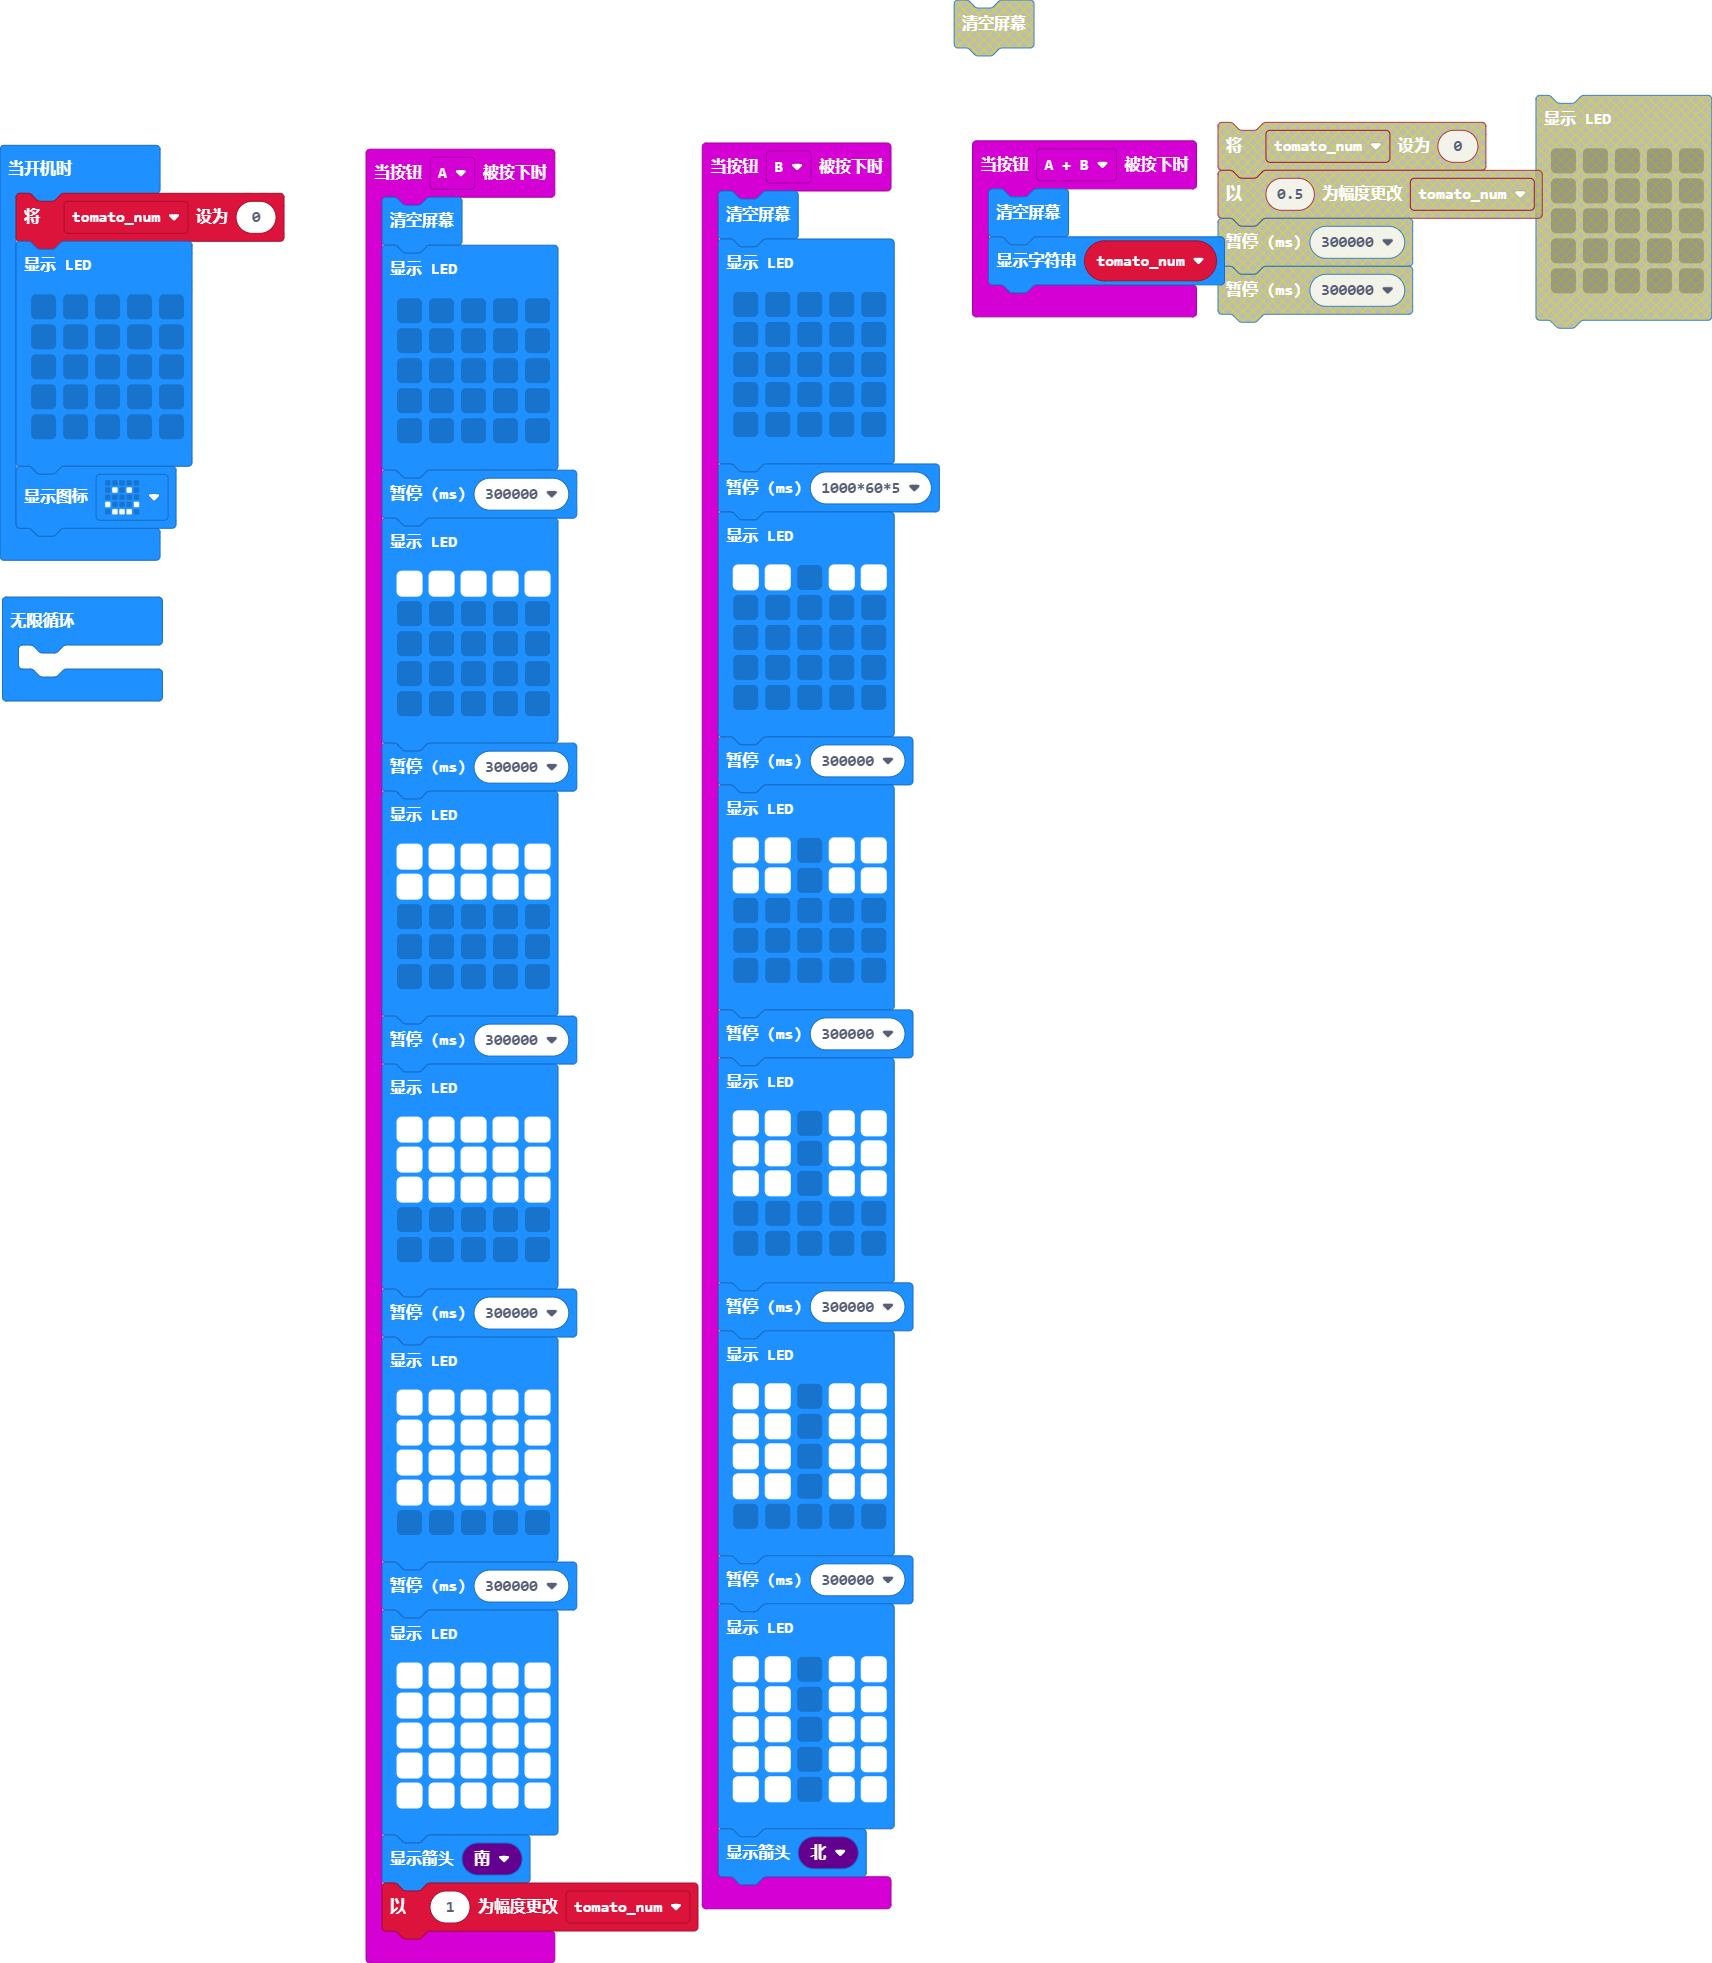
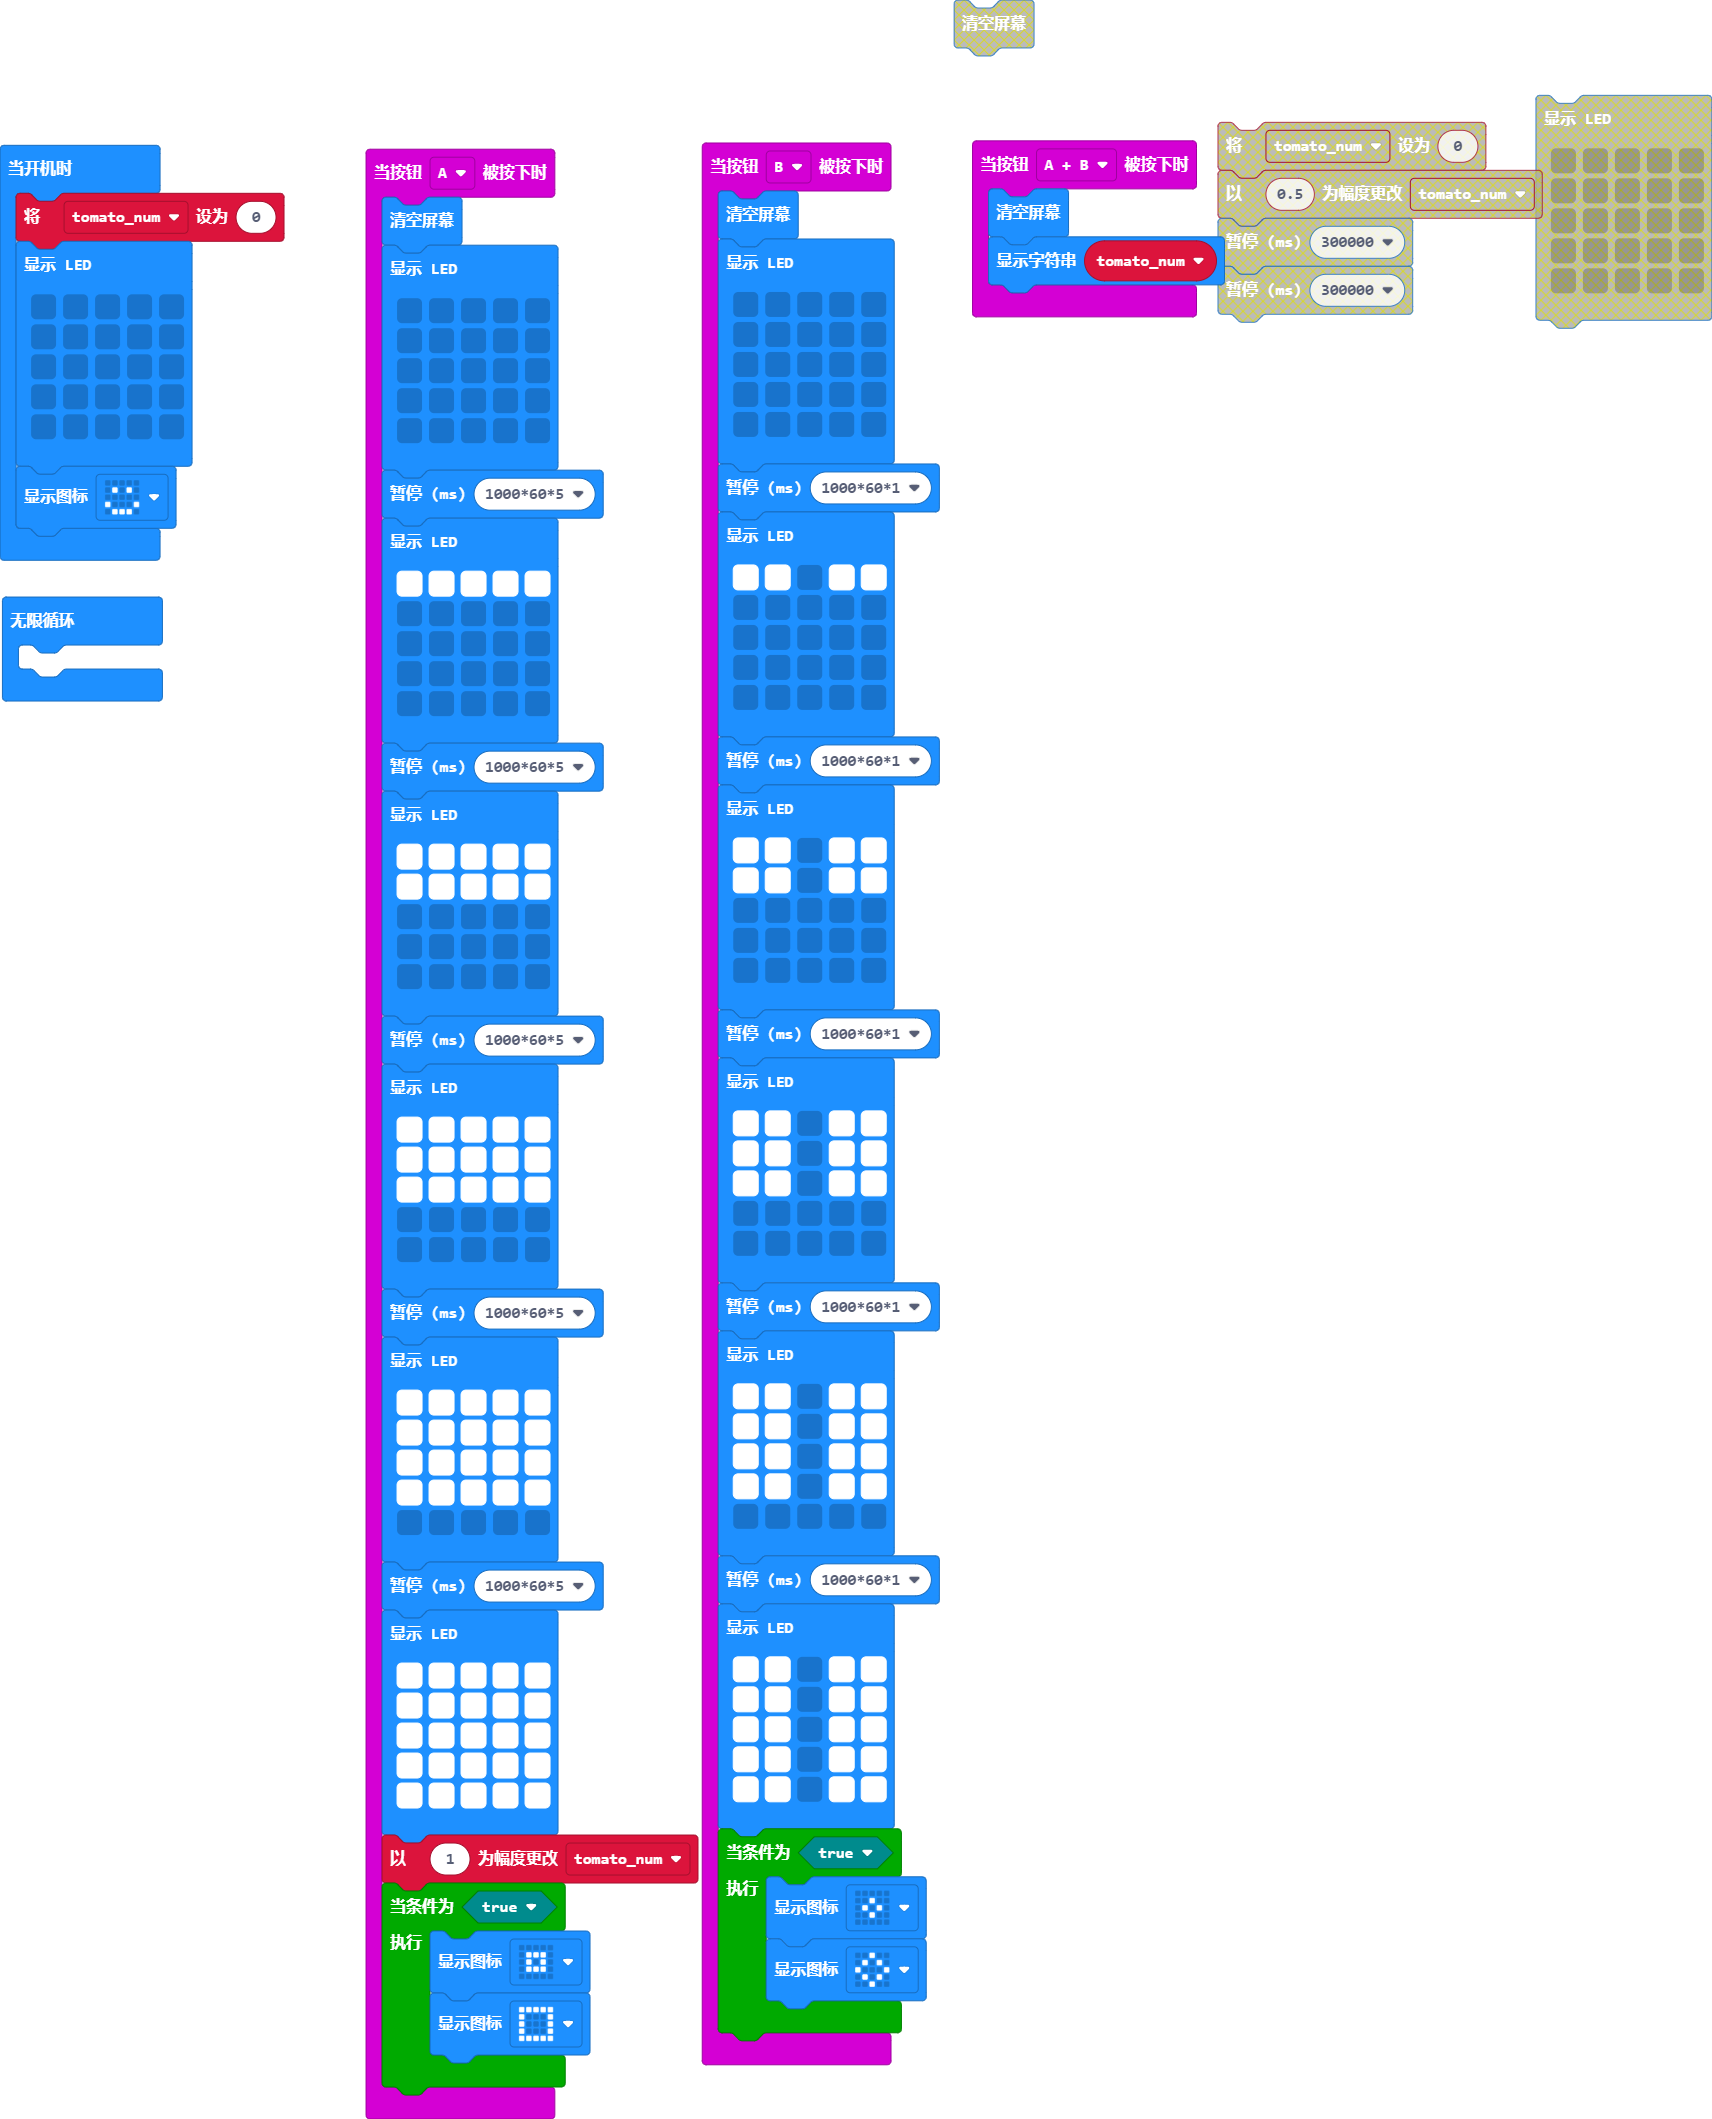
done

diff --git a/main.ts b/main.ts
@@ -7,7 +7,7 @@ input.onButtonPressed(Button.A, function () {
         . . . . .
         . . . . .
         `)
-    basic.pause(300000)
+    basic.pause(1000*60*5)
     basic.showLeds(`
         # # # # #
         . . . . .
@@ -15,7 +15,7 @@ input.onButtonPressed(Button.A, function () {
         . . . . .
         . . . . .
         `)
-    basic.pause(300000)
+    basic.pause(1000*60*5)
     basic.showLeds(`
         # # # # #
         # # # # #
@@ -23,7 +23,7 @@ input.onButtonPressed(Button.A, function () {
         . . . . .
         . . . . .
         `)
-    basic.pause(300000)
+    basic.pause(1000*60*5)
     basic.showLeds(`
         # # # # #
         # # # # #
@@ -31,7 +31,7 @@ input.onButtonPressed(Button.A, function () {
         . . . . .
         . . . . .
         `)
-    basic.pause(300000)
+    basic.pause(1000*60*5)
     basic.showLeds(`
         # # # # #
         # # # # #
@@ -39,7 +39,7 @@ input.onButtonPressed(Button.A, function () {
         # # # # #
         . . . . .
         `)
-    basic.pause(300000)
+    basic.pause(1000*60*5)
     basic.showLeds(`
         # # # # #
         # # # # #
@@ -47,8 +47,11 @@ input.onButtonPressed(Button.A, function () {
         # # # # #
         # # # # #
         `)
-    basic.showArrow(ArrowNames.South)
     tomato_num += 1
+    while (true) {
+        basic.showIcon(IconNames.SmallSquare)
+        basic.showIcon(IconNames.Square)
+    }
 })
 input.onButtonPressed(Button.AB, function () {
     basic.clearScreen()
@@ -63,7 +66,7 @@ input.onButtonPressed(Button.B, function () {
         . . . . .
         . . . . .
         `)
-    basic.pause(1000*60*5)
+    basic.pause(1000*60*1)
     basic.showLeds(`
         # # . # #
         . . . . .
@@ -71,7 +74,7 @@ input.onButtonPressed(Button.B, function () {
         . . . . .
         . . . . .
         `)
-    basic.pause(300000)
+    basic.pause(1000*60*1)
     basic.showLeds(`
         # # . # #
         # # . # #
@@ -79,7 +82,7 @@ input.onButtonPressed(Button.B, function () {
         . . . . .
         . . . . .
         `)
-    basic.pause(300000)
+    basic.pause(1000*60*1)
     basic.showLeds(`
         # # . # #
         # # . # #
@@ -87,7 +90,7 @@ input.onButtonPressed(Button.B, function () {
         . . . . .
         . . . . .
         `)
-    basic.pause(300000)
+    basic.pause(1000*60*1)
     basic.showLeds(`
         # # . # #
         # # . # #
@@ -95,7 +98,7 @@ input.onButtonPressed(Button.B, function () {
         # # . # #
         . . . . .
         `)
-    basic.pause(300000)
+    basic.pause(1000*60*1)
     basic.showLeds(`
         # # . # #
         # # . # #
@@ -103,7 +106,10 @@ input.onButtonPressed(Button.B, function () {
         # # . # #
         # # . # #
         `)
-    basic.showArrow(ArrowNames.North)
+    while (true) {
+        basic.showIcon(IconNames.SmallDiamond)
+        basic.showIcon(IconNames.Diamond)
+    }
 })
 let tomato_num = 0
 tomato_num = 0
